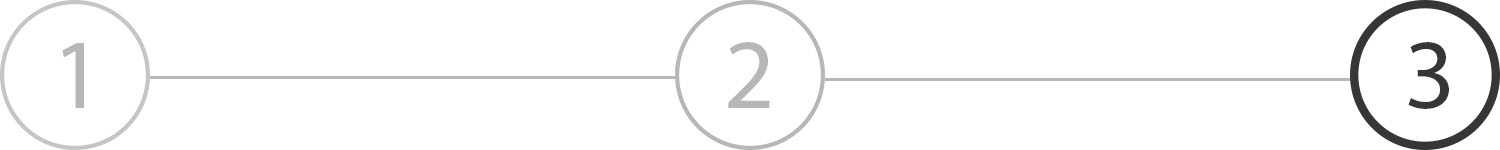
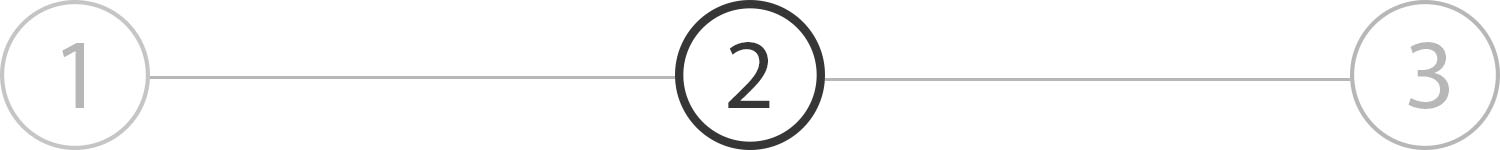
Change border style, start ideal partner

Changed region(s): [[0.8893, 0.0, 1.0, 1.0], [0.4293, 0.0, 0.552, 1.0]]

diff --git a/microservices/ui/app/src/style/Form.css b/microservices/ui/app/src/style/Form.css
@@ -16,21 +16,10 @@
   height: 50px;
 }
 
-.progress-img-2 {
-  background: url('../images/progress-2.jpg');
-  -webkit-background-size: cover;
-  -moz-background-size: cover;
-  -o-background-size: cover;
-  background-size: cover;
-  width: 500px;
-  height: 50px;
-}
-
 .progress-names {
   display: flex;
   width: 650px;
   margin-top: 20px;
-  /* padding-right: 10px; */
 }
 
 .about {
@@ -56,20 +45,6 @@
   color: gray;
 }
 
-.add-2 {
-  margin-left: 115px;
-}
-
-.about-2 {
-  margin-left: 30px;
-  color: gray;
-}
-
-.ideal-2 {
-  margin-left: 90px;
-  color: gray;
-}
-
 .form {
   display: flex;
   flex-direction: column;
@@ -80,14 +55,16 @@
 }
 
 .form-prompt {
-  font-size: 36px;
-  color: gray;
+  font-size: 30px;
+  color: #555555;
 }
 
 .form-prompt-info {
-  width: 720px;
-  margin-top: 40px;
+  width: 740px;
+  margin-top: 30px;
   line-height: 150%;
+  font-size: 18px;
+  color: #555555;
 }
 
 .form-container {
@@ -111,19 +88,23 @@
 }
 
 .input-prompt {
+  font-size: 20px;
+  font-weight: 550;
   margin-top: 60px;
   margin-bottom: 10px;
+  color: #222;
 }
 
 .input-description {
   font-size: 12px;
+  font-weight: 400;
   color: gray;
 }
 
 
 .form-select {
   width: 314px;
-  height: 40px;
+  height: 38px;
   -webkit-appearance: none;
   -moz-appearance: none;
   -webkit-border-radius: 0px;
@@ -132,7 +113,7 @@
   background-size: 75%;
   background-position: right;
   background-repeat: no-repeat;
-  border: 2px solid lightgray;
+  border: 1px solid rgba(0, 0, 0, 0.5);
   font-size: 14px;
   outline: none;
   padding: 0px;
@@ -147,9 +128,9 @@
   -webkit-appearance: none;
   -moz-appearance: none;
   width: 300px;
-  height: 36px;
+  height: 38px;
   -webkit-border-radius: 0px;
-  border: 2px solid lightgray;
+  border: 1px solid rgba(0, 0, 0, 0.5);
   font-size: 14px;
   padding: 0px;
   padding-left: 10px;
@@ -161,9 +142,9 @@
   -webkit-appearance: none;
   -moz-appearance: none;
   width: 300px;
-  height: 34px;
+  height: 32px;
   -webkit-border-radius: 0px;
-  border: 2px solid lightgray;
+  border: 1px solid rgba(0, 0, 0, 0.5);
   font-size: 14px;
   padding: 0px;
   padding-left: 10px;
@@ -217,14 +198,14 @@
 }
 
 .form-birthday-container {
-  margin-bottom: 10px;
+  margin-bottom: 12px;
 }
 
 .form-birthday-container input {
   -webkit-appearance: none;
   -moz-appearance: none;
-  border: 2px solid lightgray;
-  height: 35px;
+  border: 1px solid rgba(0, 0, 0, 0.5);
+  height: 38px;
   font-size: 14px;
   text-align: center;
   margin-right: 10px;

diff --git a/microservices/ui/app/src/components/PartnerForm.jsx b/microservices/ui/app/src/components/PartnerForm.jsx
@@ -1,0 +1,52 @@
+import React, { Component } from 'react';
+import axios from 'axios';
+
+class PartnerForm extends Component {
+  componentDidMount() {
+    const submit = document.getElementById("partner-submit");
+    submit.addEventListener('click', () => {
+      this.props.history.push("/addphotos");
+    });
+  }
+
+  render() {
+    return(
+      <div>
+      <div className="progress-tracker">
+      <div className="progress-img-2"></div>
+      <div className="progress-names">
+      <div className="about-2">ABOUT YOURSELF</div>
+      <div className="ideal-2">IDEAL PARTNER</div>
+      <div className="add-2">ADD PHOTOS</div>
+      </div>
+      </div>
+      <div className="form">
+      <div className="form-prompt">
+      Tell us about your ideal match
+      </div>
+      <div className="form-prompt-info">
+      Who would you like to meet? The more we know the better we work.
+      </div>
+
+      <div id="qualities-prompt" className="input-prompt">TOP QUALITIES IN A MATCH</div>
+      <div id="qualities-input-container" className="qualities-input-container">
+        <input id="form-qualities" className="form-input-item" type="text" placeholder="e.g. a good sense of humor"></input>
+        <div className="qualities-button"><i class="fa fa-plus"></i><div>ADD</div></div>
+      </div>
+      <div className="input-description">Tell us the qualities you prioritize in an ideal match.</div>
+
+      <div id="more-qualities" className="input-prompt">IF YOU'D LIKE... TELL US MORE</div>
+      <input id="form-location" className="form-more" type="text"></input>
+      <div id="location-desc" className="input-description">Feel free to elaborate on your top qualities in a match.</div>
+
+      <div id="partner-submit" className="submit">
+      SAVE AND CONTINUE
+      </div>
+      <div id="photo-errors" className="errors"></div>
+      </div>
+      </div>
+    )
+  }
+}
+
+export default PartnerForm;

diff --git a/microservices/ui/app/src/style/PartnerForm.css b/microservices/ui/app/src/style/PartnerForm.css
@@ -1,0 +1,78 @@
+.progress-img-2 {
+  background: url('../images/progress-2.jpg');
+  -webkit-background-size: cover;
+  -moz-background-size: cover;
+  -o-background-size: cover;
+  background-size: cover;
+  width: 500px;
+  height: 50px;
+}
+
+.add-2 {
+  margin-left: 115px;
+  color: gray;
+}
+
+.about-2 {
+  margin-left: 30px;
+  color: gray;
+}
+
+.ideal-2 {
+  margin-left: 90px;
+}
+
+.form-input-item {
+  -webkit-appearance: none;
+  -moz-appearance: none;
+  width: 400px;
+  height: 38px;
+  -webkit-border-radius: 0px;
+  border: 1px solid #555555;
+  border-right: none;
+  font-size: 14px;
+  padding: 0px;
+  padding-left: 10px;
+  color: rgba(0, 0, 0, 0.5);
+  outline: none;
+}
+
+.qualities-input-container {
+  display: flex;
+}
+
+.qualities-button {
+  width: 80px;
+  height: 38px;
+  background: #00B9D7;
+  color: white;
+  border: 1px solid #555555;
+  border-left: none;
+  display: flex;
+  align-items: center;
+  justify-content: center;
+  font-size: 13px;
+}
+.qualities-button:hover {
+  cursor: pointer;
+  background: #00A9C7;
+  transition: background 0.2s ease;
+}
+
+.qualities-button div {
+  margin-left: 5px;
+}
+
+.form-more {
+  -webkit-appearance: none;
+  -moz-appearance: none;
+  width: 500px;
+  height: 76px;
+  -webkit-border-radius: 0px;
+  border: 1px solid #222;
+  font-size: 14px;
+  padding: 0px;
+  padding-left: 10px;
+  color: rgba(0, 0, 0, 0.5);
+  outline: none;
+}

diff --git a/microservices/ui/app/src/components/Main.jsx b/microservices/ui/app/src/components/Main.jsx
@@ -3,6 +3,7 @@ import { HashRouter, Route, Switch } from 'react-router-dom';
 import Navbar from './Navbar.jsx';
 import Banner from './Banner.jsx';
 import Form from './Form.jsx';
+import PartnerForm from './PartnerForm.jsx';
 import PhotoForm from './PhotoForm.jsx';
 
 // This component contains the navbar, banner, progress tracker and forms
@@ -13,12 +14,14 @@ class Main extends Component {
         <div className="App">
         <Navbar />
         <Banner />
-          <Switch>
-            // Default to first form
-            <Route exact path="/" component={Form} />
-            // Route to photo form
-            <Route path="/addphotos" component={PhotoForm} />
-          </Switch>
+        <Switch>
+          // Route to partner form
+          <Route path="/idealpartner" component={PartnerForm} />
+          // Route to photo form
+          <Route path="/addphotos" component={PhotoForm} />
+          // Default to first form
+          <Route path="/" component={Form} />
+        </Switch>
         </div>
       </HashRouter>
     );

diff --git a/microservices/ui/app/src/components/Form.jsx b/microservices/ui/app/src/components/Form.jsx
@@ -71,7 +71,7 @@ class Form extends Component {
           ]
         }
       });
-      this.props.history.push("/addphotos");
+      this.props.history.push("/idealpartner");
   }
 
   // Checks if all fields are filled and calls successfulSubmit if so
@@ -324,7 +324,6 @@ class Form extends Component {
             Tell us a bit about yourself and who you’d like to meet. The more we know, the better. Be candid--this info is for our eyes only. Tawkify profiles and photos will forever be 100% confidential.
           </div>
 
-          // Form container contains two flexbox columns
           <div className="form-container">
             <div className="form-left">
 

diff --git a/microservices/ui/app/src/components/PhotoForm.jsx b/microservices/ui/app/src/components/PhotoForm.jsx
@@ -145,11 +145,11 @@ class PhotoForm extends Component {
     return(
       <div>
         <div className="progress-tracker">
-          <div className="progress-img-2"></div>
+          <div className="progress-img-3"></div>
           <div className="progress-names">
-            <div className="about-2">ABOUT YOURSELF</div>
-            <div className="ideal-2">IDEAL PARTNER</div>
-            <div className="add-2">ADD PHOTOS</div>
+            <div className="about-3">ABOUT YOURSELF</div>
+            <div className="ideal-3">IDEAL PARTNER</div>
+            <div className="add-3">ADD PHOTOS</div>
           </div>
         </div>
         <div className="form">

diff --git a/microservices/ui/app/src/style/PhotoForm.css b/microservices/ui/app/src/style/PhotoForm.css
@@ -1,3 +1,27 @@
+.progress-img-3 {
+  background: url('../images/progress-3.jpg');
+  -webkit-background-size: cover;
+  -moz-background-size: cover;
+  -o-background-size: cover;
+  background-size: cover;
+  width: 500px;
+  height: 50px;
+}
+
+.add-3 {
+  margin-left: 115px;
+}
+
+.about-3 {
+  margin-left: 30px;
+  color: gray;
+}
+
+.ideal-3 {
+  margin-left: 90px;
+  color: gray;
+}
+
 .form-photo-img {
   display: flex;
   justify-content: center;

diff --git a/microservices/ui/app/src/App.jsx b/microservices/ui/app/src/App.jsx
@@ -4,6 +4,7 @@ import './App.css';
 import './style/Nav.css';
 import './style/Banner.css';
 import './style/Form.css';
+import './style/PartnerForm.css';
 import './style/PhotoForm.css';
 import './style/Users.css';
 import Main from './components/Main.jsx';
